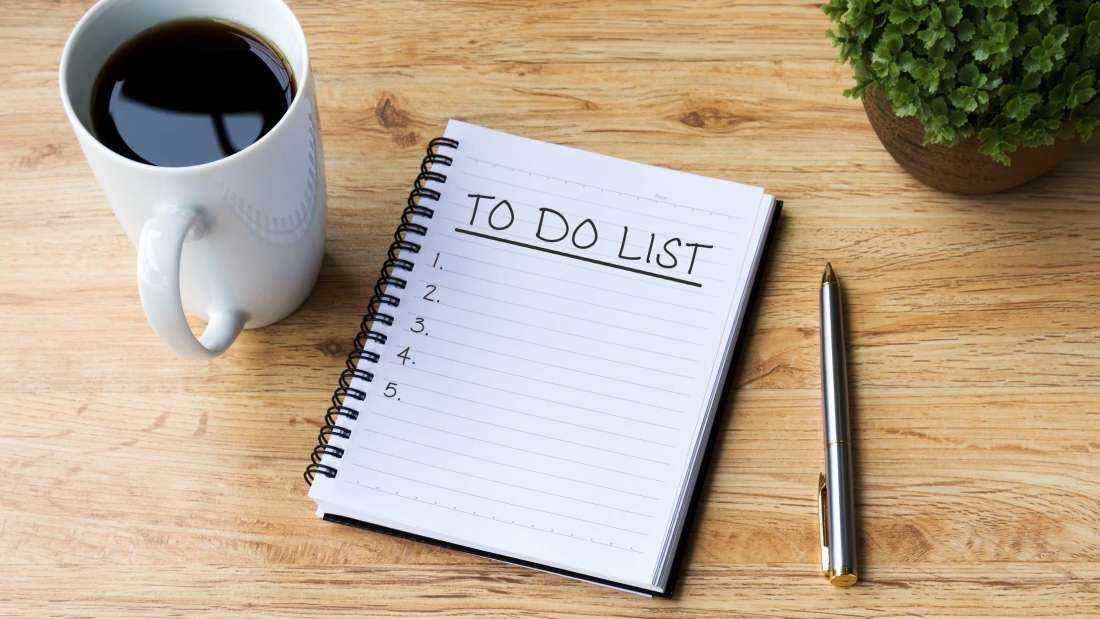
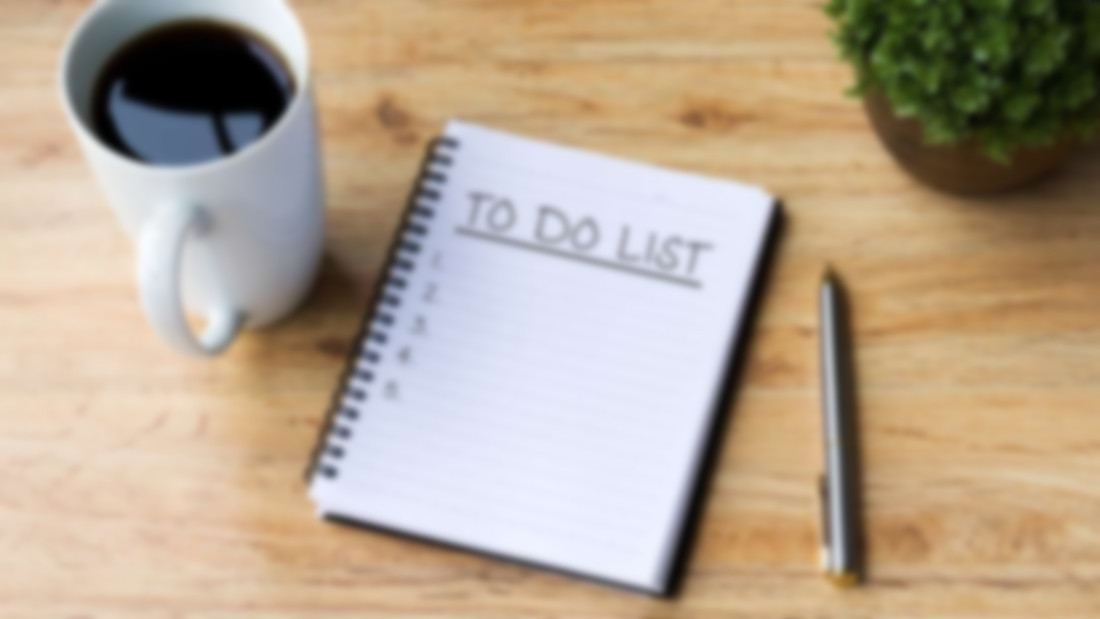
update image

diff --git a/.history/src/components/style_20181210195105.css b/.history/src/components/style_20181210195105.css
@@ -5,9 +5,25 @@ body {
   -moz-background-size: cover;
   -o-background-size: cover;
   background-size: cover;
+  overflow-x: hidden;
   background-attachment: fixed;
 }
-
+body:before {
+  content: "";
+  background: inherit;
+  -webkit-filter: blur(5px);
+  -moz-filter: blur(5px);
+  -o-filter: blur(5px);
+  -ms-filter: blur(5px);
+  filter: blur(5px);
+  position: absolute;
+  top: -5px;
+  left: -5px;
+  right: -5px;
+  bottom: -5px;
+  z-index: -1;
+  background-attachment: fixed;
+}
 h1 {
   font-family: "Roboto Slab", serif;
   color: #dfe4ea;

diff --git a/.history/src/components/style_20181210194902.css b/.history/src/components/style_20181210194902.css
@@ -5,9 +5,23 @@ body {
   -moz-background-size: cover;
   -o-background-size: cover;
   background-size: cover;
-  background-attachment: fixed;
+  overflow-y: hidden;
 }
-
+body:before {
+  content: "";
+  background: inherit;
+  -webkit-filter: blur(5px);
+  -moz-filter: blur(5px);
+  -o-filter: blur(5px);
+  -ms-filter: blur(5px);
+  filter: blur(5px);
+  position: absolute;
+  top: -5px;
+  left: -5px;
+  right: -5px;
+  bottom: -5px;
+  z-index: -1;
+}
 h1 {
   font-family: "Roboto Slab", serif;
   color: #dfe4ea;

diff --git a/.history/src/components/style_20181210194915.css b/.history/src/components/style_20181210194915.css
@@ -5,9 +5,23 @@ body {
   -moz-background-size: cover;
   -o-background-size: cover;
   background-size: cover;
-  background-attachment: fixed;
+  overflow-x: hidden;
 }
-
+body:before {
+  content: "";
+  background: inherit;
+  -webkit-filter: blur(5px);
+  -moz-filter: blur(5px);
+  -o-filter: blur(5px);
+  -ms-filter: blur(5px);
+  filter: blur(5px);
+  position: absolute;
+  top: -5px;
+  left: -5px;
+  right: -5px;
+  bottom: -5px;
+  z-index: -1;
+}
 h1 {
   font-family: "Roboto Slab", serif;
   color: #dfe4ea;

diff --git a/.history/src/components/style_20181210195044.css b/.history/src/components/style_20181210195044.css
@@ -5,9 +5,24 @@ body {
   -moz-background-size: cover;
   -o-background-size: cover;
   background-size: cover;
+  overflow-x: hidden;
   background-attachment: fixed;
 }
-
+body:before {
+  content: "";
+  background: inherit;
+  -webkit-filter: blur(5px);
+  -moz-filter: blur(5px);
+  -o-filter: blur(5px);
+  -ms-filter: blur(5px);
+  filter: blur(5px);
+  position: absolute;
+  top: -5px;
+  left: -5px;
+  right: -5px;
+  bottom: -5px;
+  z-index: -1;
+}
 h1 {
   font-family: "Roboto Slab", serif;
   color: #dfe4ea;
